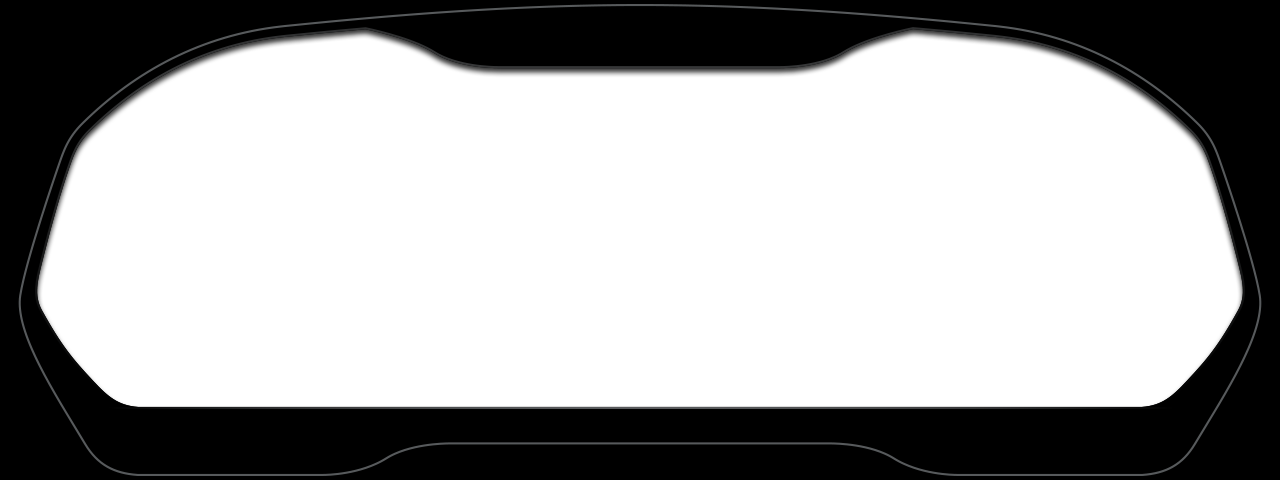
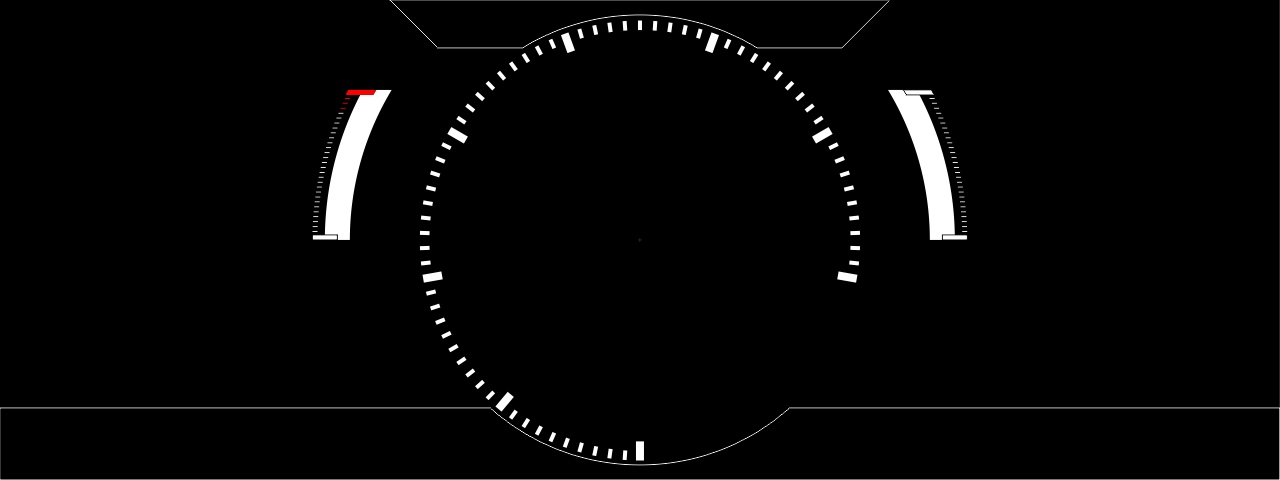
-

diff --git a/Dash.qml b/Dash.qml
@@ -16,35 +16,6 @@ Item {
         easing.type: Easing.InOutCirc
     }
 
-//    // Coolant temp
-//    ProgressBar{
-//        id: coolantTemp
-//        x: 30
-//        y: 90
-//        visible: true
-//        //
-//        scale_value: main.sourceData[5] <= 50 ? 0 : (sourceData[5] - 50) * 1.9
-//        color: main.sourceData[5] >110 ? "red" : "white"
-//    }
-
-//    // Fuel level
-//    ProgressBar{
-//        id: fuelLevel
-//        x: 540
-//        y: 90
-//        //
-//        scale_value: 111
-//        color: "white"
-//    }
-
-//    // DashMask
-//    Image {
-//        id: dashMask
-//        source: "qrc:/images/DashMask.png"
-//        anchors.centerIn: parent
-//    }
-
-
     // Voltmeter
     Inscription {
         id: voltmeter
@@ -53,7 +24,6 @@ Item {
         text: String(main.sourceData[3])
         anchors.leftMargin: 214
         size: 20
-        z: 2
     }
 
     Tachometer {
@@ -82,24 +52,12 @@ Item {
     Row {
         id: topIcons
         anchors.horizontalCenter: parent.horizontalCenter
-        y: 15
-        spacing: 40
+        y: 5
+        spacing: 300
 
         Image {
             id: turnLeft
             source: "qrc:/icons/TurnLeft.png"
-            visible: true
-        }
-
-        Image {
-            id: frontFog
-            source: "qrc:/icons/FrontFog.png"
-            visible: true
-        }
-
-        Image {
-            id: highBeam
-            source: "qrc:/icons/HighBeam.png"
             visible: true
         }
 

diff --git a/main.qml b/main.qml
@@ -30,6 +30,27 @@ Window {
     ...
     */
 
+    // Coolant temp
+    ProgressBar{
+        id: coolantTemp
+        x: 323
+        y: 90
+        width: 70
+        visible: true
+
+        scale_value: main.sourceData[5] <= 50 ? 0 : (sourceData[5] - 50) * 1.9
+        color: main.sourceData[5] >110 ? "red" : "white"
+    }
+
+    // Fuel level
+    ProgressBar{
+        id: fuelLevel
+        x: 887
+        y: 90
+        width: 70
+        scale_value: 111
+        color: "white"
+    }
     Loader {
         id: loader
 
@@ -38,6 +59,7 @@ Window {
         source: "qrc:/Dash.qml"
 
         Image{
+            id: dashMask
             source: "qrc:/images/DashMask.png"
             Component.onCompleted: loader.active = true
         }

diff --git a/Tachometer.qml b/Tachometer.qml
@@ -3,25 +3,20 @@ import QtQuick 2.9
 Item {
     id: tacho
     property alias rpm: needleRotation.angle
-    width: 300
-    height: 300
+    width: 420
+    height: 420
     anchors.centerIn: parent
 
-    Image {
-        id: tachoScales
-        anchors.centerIn: parent
-        source: "qrc:/images/TachoScales.png"
-    }
     Rectangle {
         id: needle
         width: 5
-        height: 150
+        height: 210
         color: main.colorNeedle
         x: (parent.width / 2) - 3
         y: parent.height / 2
         transform: Rotation {
             id: needleRotation
-            origin.x: 5
+            origin.x: 3
             origin.y: 0
         }
         smooth: true
